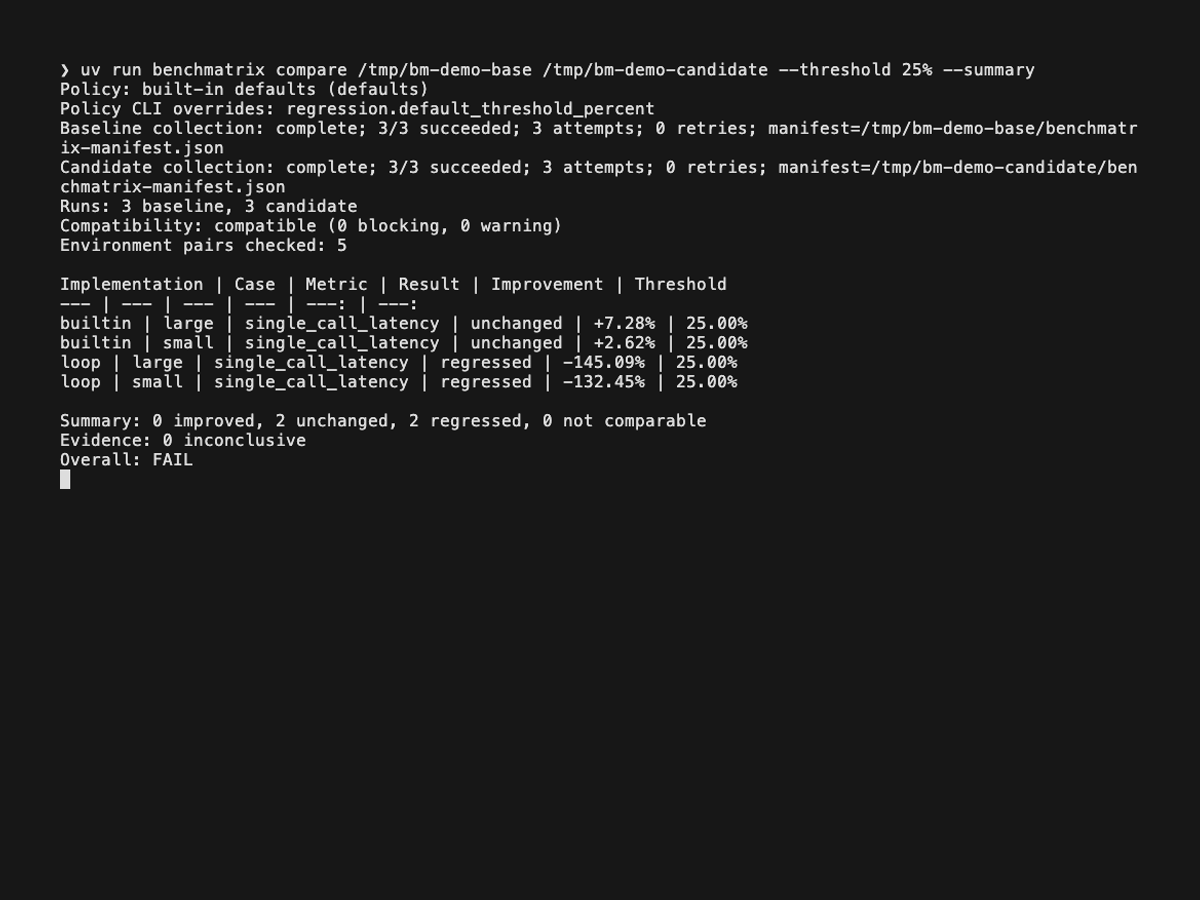
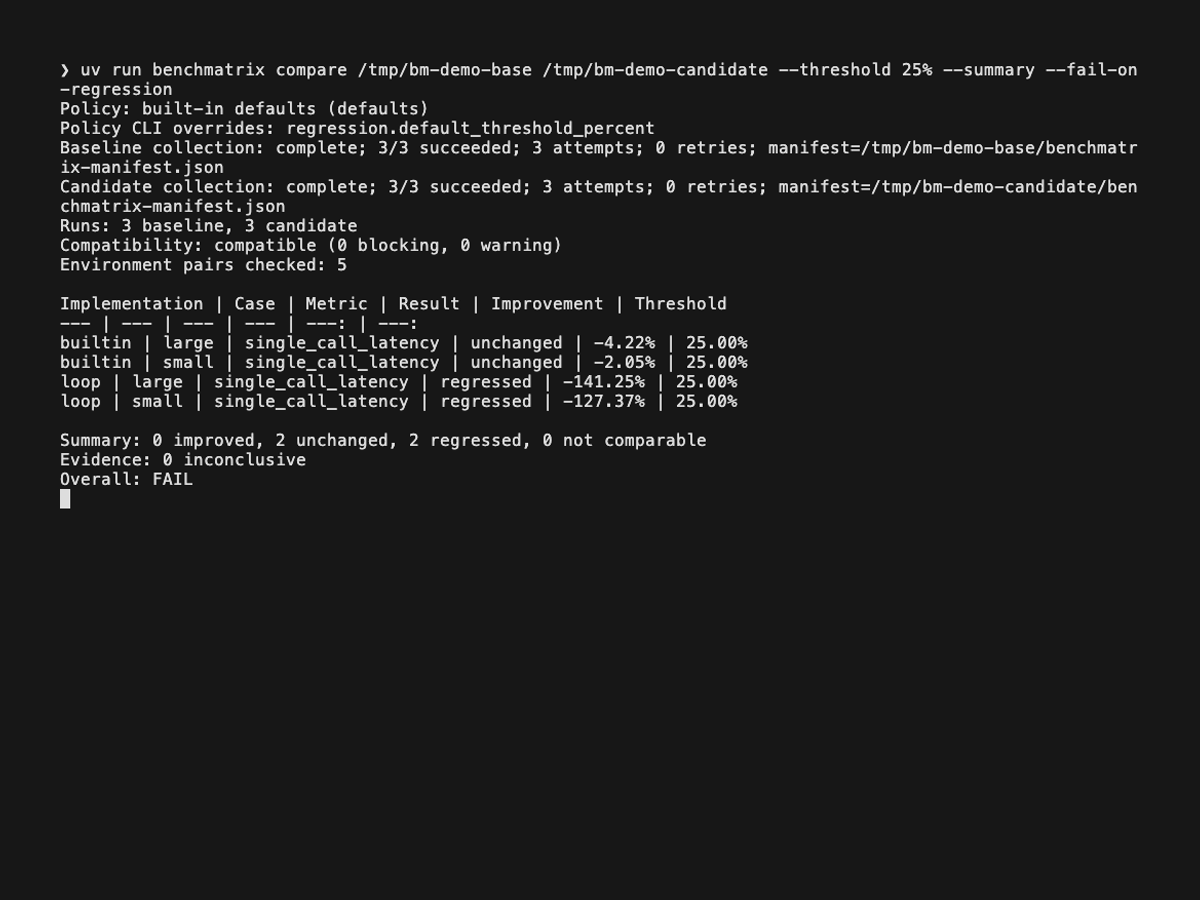
docs: refresh the benchmark demo

Changed region(s): [[0.0308, 0.0933, 0.9558, 0.56], [0.8633, 0.0622, 0.9558, 0.0933]]

diff --git a/docs/demo/README.md b/docs/demo/README.md
@@ -1,5 +1,23 @@
 # Basic demo
 
+<!-- markdownlint-disable MD033 MD034 -->
+<video
+  controls
+  preload="metadata"
+  poster="../assets/basic-demo.png"
+  width="1200"
+>
+  <source
+    src="https://github.com/ryancswallace/benchmatrix/releases/download/v1.0.0/basic-demo.mp4"
+    type="video/mp4"
+  >
+  Your browser cannot play this video.
+  <a href="https://github.com/ryancswallace/benchmatrix/releases/download/v1.0.0/basic-demo.mp4">
+    Download the MP4 instead.
+  </a>
+</video>
+<!-- markdownlint-enable MD033 MD034 -->
+
 This demo runs inside the benchmatrix repository, where the normal pytest
 configuration checks coverage for the complete package. `measure` isolates
 those project-wide options so they do not distort the benchmark.
@@ -23,9 +41,13 @@ Compare them:
 
 ```bash
 uv run benchmatrix compare demo-baseline demo-candidate \
-    --threshold 5% \
+    --threshold 25% \
+    --summary \
     --fail-on-regression
 ```
+
+The intentionally slower `loop` implementation should make this command report
+`Overall: FAIL` and exit with status `1`.
 
 Collection manifests preserve the managed pytest command. Start with new output
 directories, or use `measure --resume` to continue an interrupted collection.
